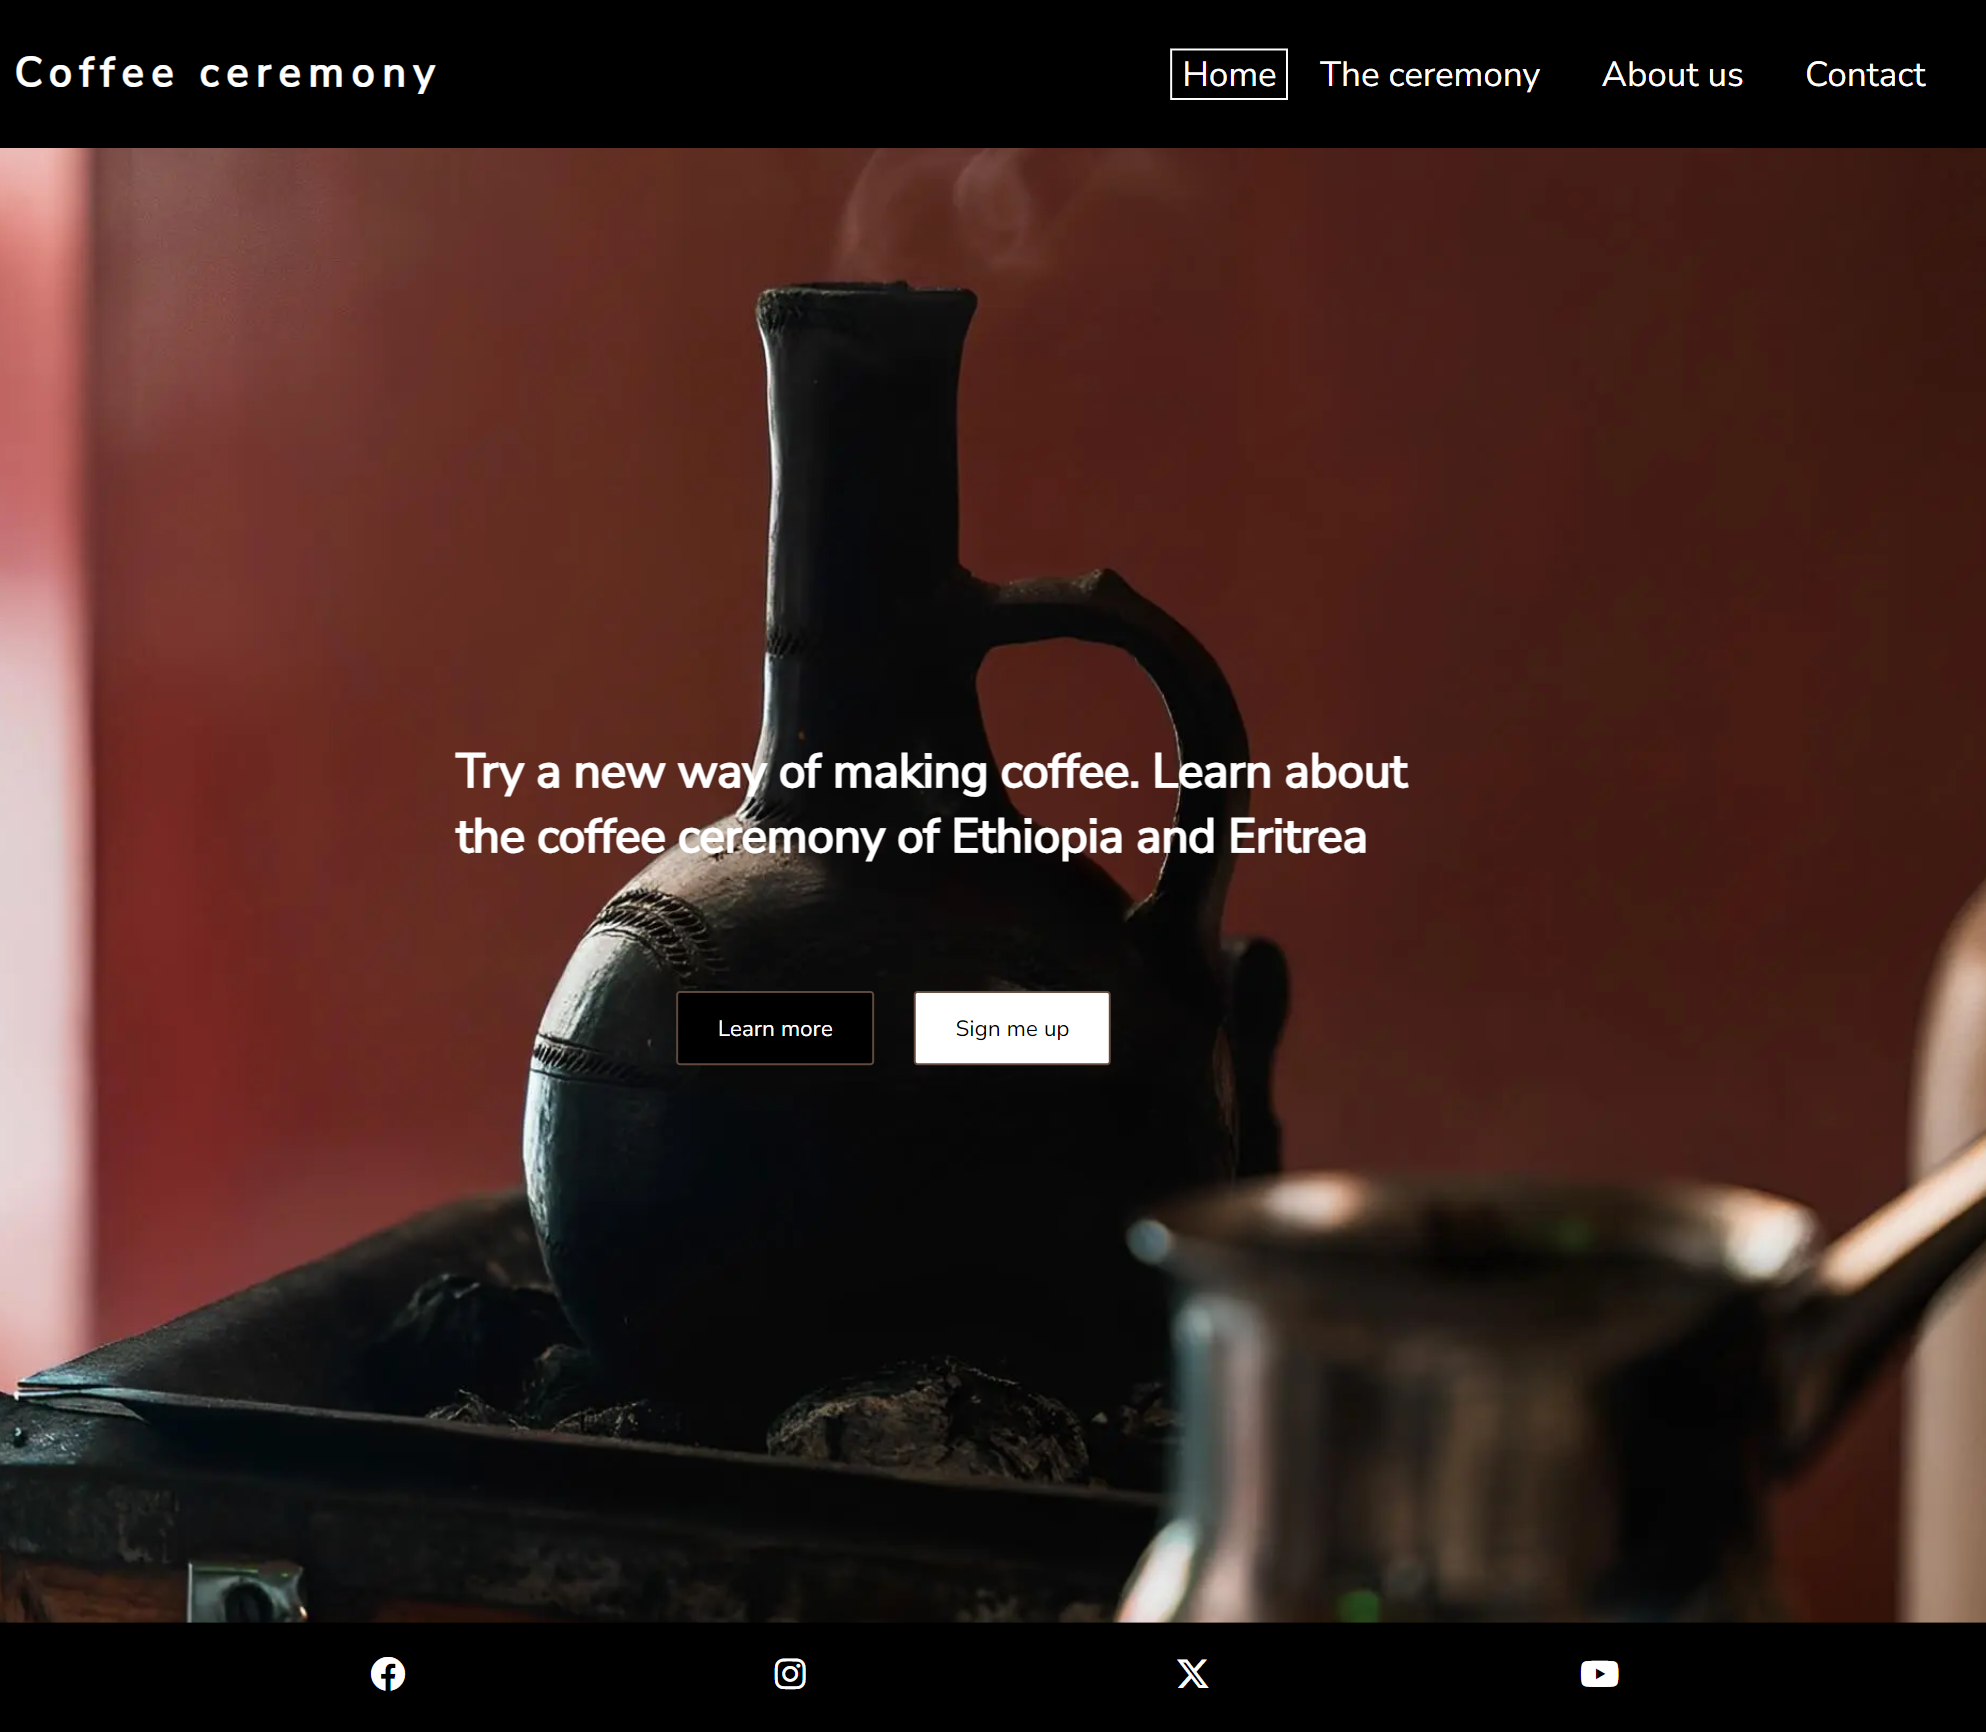
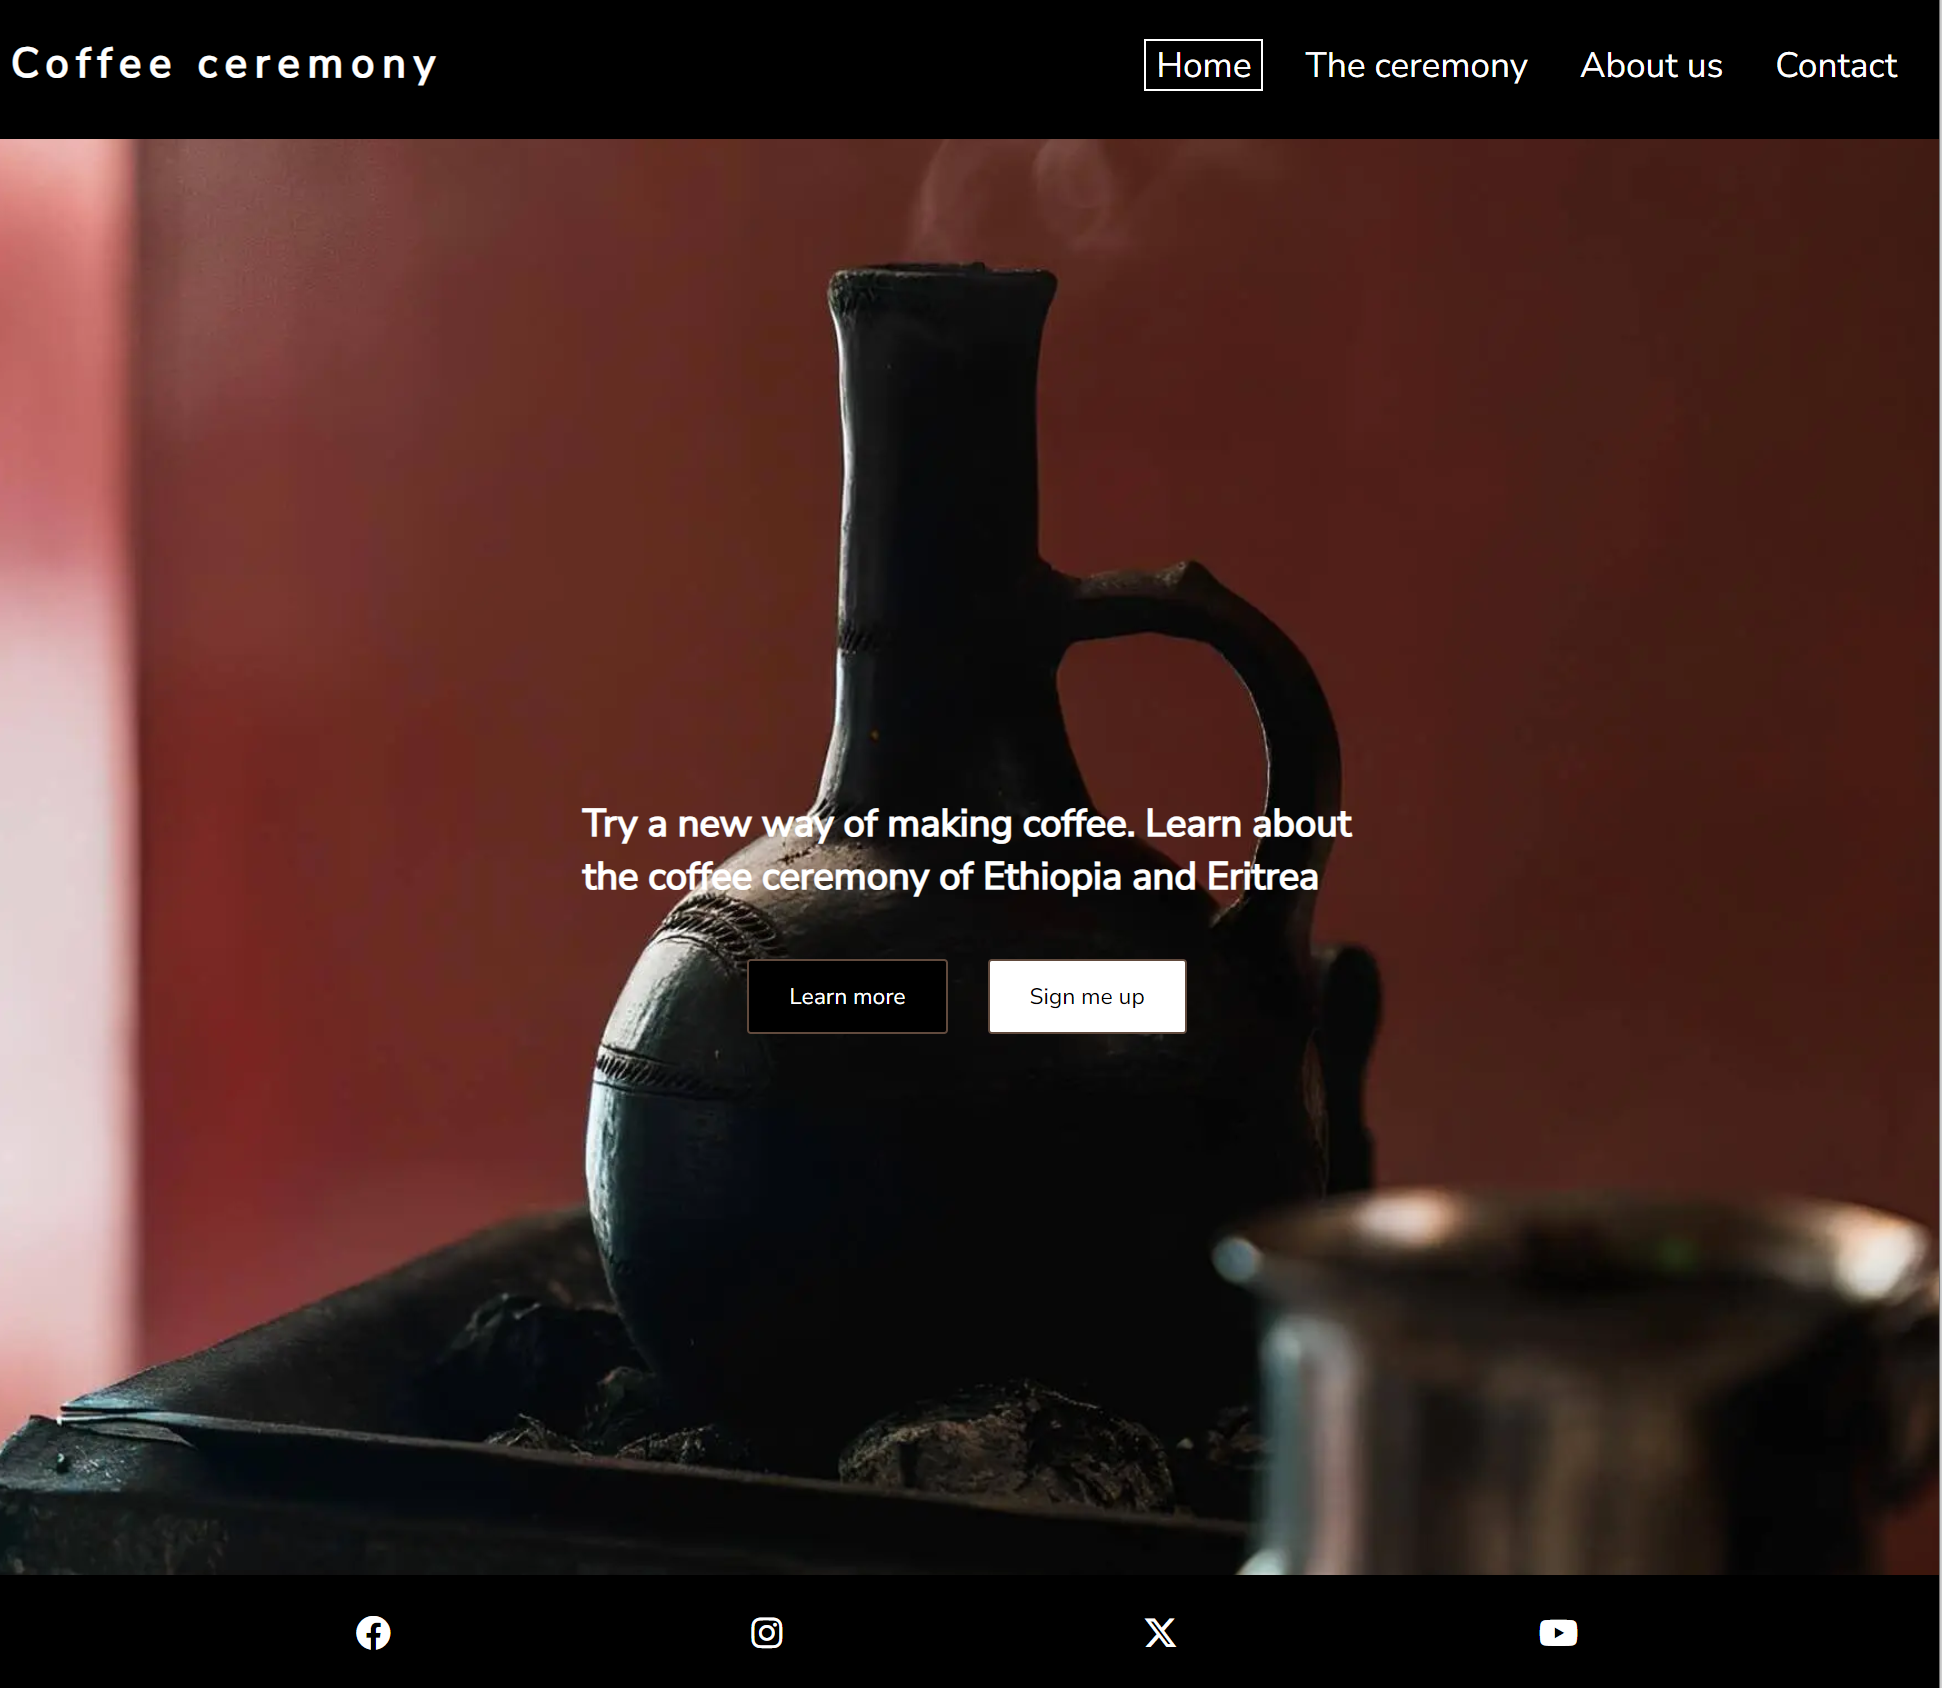
Add the W3C Markup and CSS test results to README

diff --git a/assets/css/style.css b/assets/css/style.css
@@ -139,7 +139,7 @@ nav {
 .intro-text {
     font-family: 'Nunito Sans', sans-serif;
     position: absolute;
-    top: 45%;
+    top: 40%;
     color: white;
     font-size: 120%;
 }
@@ -475,7 +475,7 @@ footer {
     }
 
     .intro-text {
-        font-size: 110%;
+        font-size: 105%;
         margin: 0 5% 0 5%;
     }
 

diff --git a/README.md b/README.md
@@ -6,8 +6,54 @@ The live link can be found here - [Coffee ceremony](https://milentecle.github.io
 
 ![Coffee ceremony Am I Responsive Image](docs/readme_images/am-i-responsive.png)
 
+## Contents
 
-## Site Owner Goals
+- [Site Owner Goals](#site-owner-goals)
+
+- [User Stories](#user-stories)
+  - [First time user](#first-time-user)
+
+- [Design](#design)
+  - [Images](#images)
+  - [Colours](#colours)
+  - [Fonts](#fonts)
+  - [Wireframes](#wireframes)
+
+- [Features](#features)
+  - [Navigation](#navigation)
+  - [The Home Page](#the-home-page)
+  - [The Ceremony Page](#the-ceremony-page)
+  - [About us Page](#about-us-page)
+  - [Contact Page](#contact-page)
+  - [Footer](#footer)
+  - [Features left to implement](#features-left-to-implement)
+
+- [Technologies used](#technologies-used)
+
+- [Languages](#languages)
+- [Frameworks, Libraries and Programs](#frameworks-libraries-programs)
+- [Known bugs](#know-bugs)
+- [Testing](#testing)
+
+- [Validator Testing](#validator-testing)
+  - [HTML](#html)
+  - [CSS](#css)
+  - [Accessibility](#accessibility)
+- [Form Testing](#form-testing)
+- [Links Testing](#links-testing)
+- [Browser Testing](#browser-testing)
+- [Device Testing](#device-testing)
+- [Friends and Family](#friends-and-family)
+- [Deployment](#deployment)
+- [Credits](#credits)
+  - [Code](#code)
+  - [Content](#content)
+  - [Media](#media)
+  - [Acknowledgements](#acknowledgements)
+
+
+
+ ## Site Owner Goals
 
 To share information with the user about the wonderful coffee ceremony and an oppurtunity to try another way of drinking, and enjoying coffee.
 Create curiosity and interest with clear and easily accessible information for the user.
@@ -106,7 +152,7 @@ The wireframes were produces via Balsamiq.
 ## Technologies used
 
 ## Languages 
-  - HTML
+  - HTML5
   - CSS
 
   ## Frameworks, Libraries and Programs
@@ -119,16 +165,20 @@ The wireframes were produces via Balsamiq.
    - [Google Fonts](https://fonts.google.com/) - Was used to import fonts to the page.
    - [TinyPNG](https://tinypng.com/)- Was used to reduce the file size and keep the image quality.
    - [WEBP Converter](https://cloudconvert.com/webp-converter) - Also used to reduce the file size and keep the image quality.
-   - [W3C] - Was used for HTML and CSS Validation.
+   - [W3C](https://www.w3.org/)- Was used for HTML and CSS Validation.
 
-
+## Known bugs
+No known bugs.
 
 ## Testing
 
 ### Validator Testing
  - ### HTML
-  - 
+    - No errors were returned when running every page of the code through the [W3C Markup Validator](https://validator.w3.org/)
+     - [W3C Markup Validator Results](docs/readme-images/w3c-markup-validator-results.png)
  - ### CSS
+  - No errors were returned when running the CSS through the [W3C CSS Validator](https://jigsaw.w3.org/css-validator)
+     - [W3C CSS Validator Results](docs/readme-images/css-validator-results.png)
 
  - ### Accessibility
 
@@ -181,3 +231,4 @@ Images were taken from:
 
 ### Acknowledgements
 - Antonio, my mentor, for guiding med throughout the project.
+- To my family, for all the support and patience.
